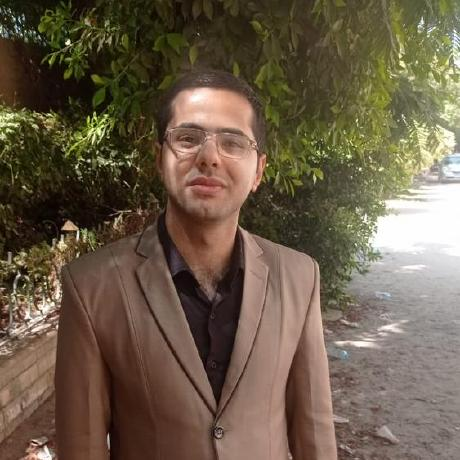
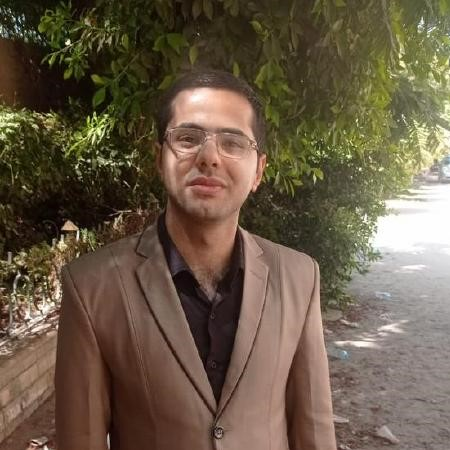
fix image and add style

diff --git a/src/pages/Contributers/Contributers.jsx b/src/pages/Contributers/Contributers.jsx
@@ -9,21 +9,24 @@ const Contributers = () => (
   <div className="App">
     <div className="cont-container">
       <div>
-        <h2>Ahmad</h2>
         <NavLink to="ahmad">
-          <img src={ahmad} alt="Ahmad" />
+          <div className="img-container">
+            <img src={ahmad} alt="Ahmad" />
+          </div>
         </NavLink>
       </div>
       <div>
-        <h2>Jorge</h2>
         <NavLink to="jorge">
-          <img src={jorge} alt="jorge" />
+          <div className="img-container">
+            <img src={jorge} alt="jorge" />
+          </div>
         </NavLink>
       </div>
       <div>
-        <h2>Sediq</h2>
         <NavLink to="sediq">
-          <img src={sediq} alt="sediq" />
+          <div className="img-container">
+            <img src={sediq} alt="sediq" />
+          </div>
         </NavLink>
       </div>
     </div>

diff --git a/src/index.scss b/src/index.scss
@@ -495,6 +495,21 @@ ul {
   }
 }
 
+// Contributers
+.cont-container {
+  margin-top: 20px;
+  display: flex;
+  justify-content: space-around;
+  border-bottom: solid 4px $green;
+
+  img {
+    width: 250px;
+    border-radius: 10%;
+  }
+  .img-container:hover {
+    border-bottom: none;
+  }
+}
 #logo {
   margin-bottom: 3rem;
 
